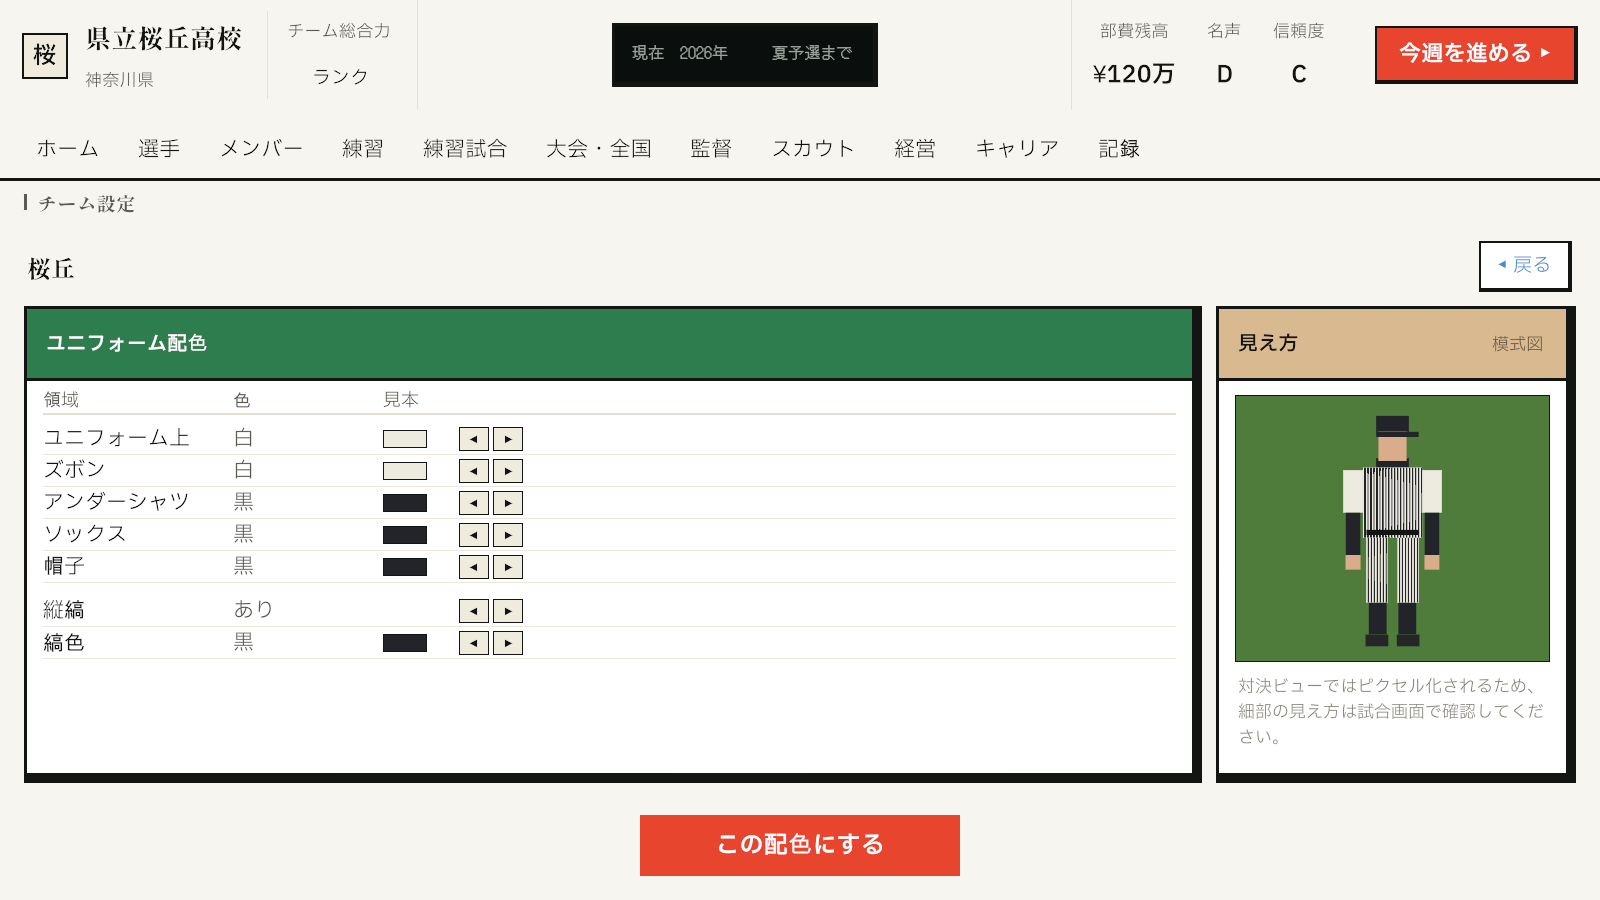
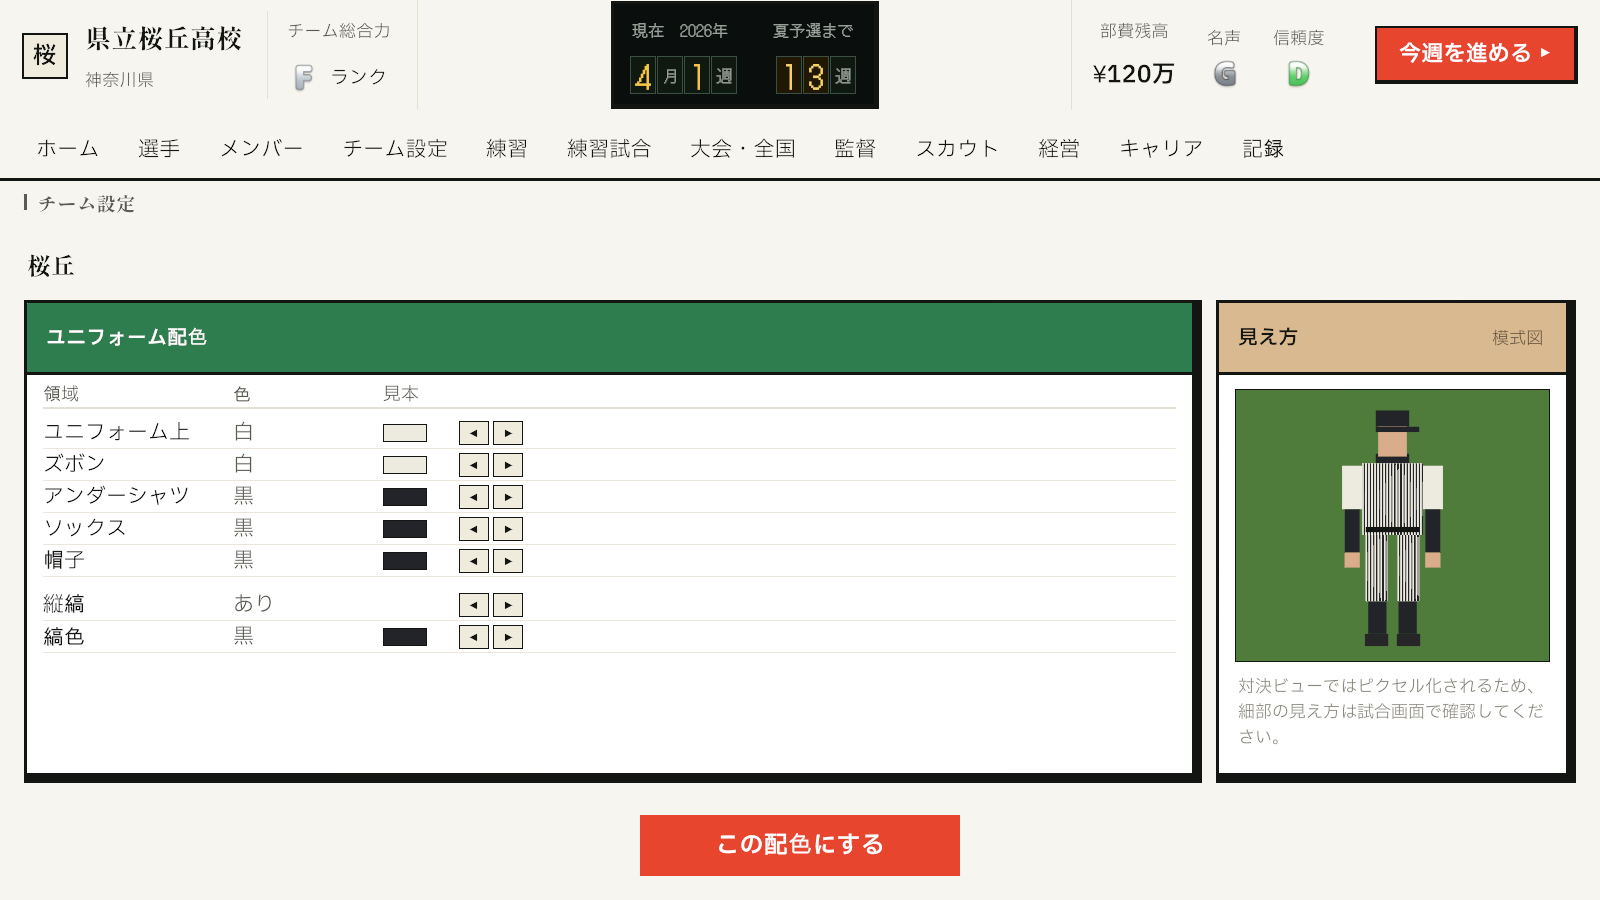
チーム設定をナビタブに出す（メンバーの隣）
従属画面（メンバー設定のボタンから開く）をやめ、共通トップバーのタブにする。

- TopBar に nav-team を追加し、ScreenRouter の Map へ登録（ExtraScreens からは外す）。
  タブ強調は Map をなめる既存ループがそのまま面倒を見る
- WeekAdvancers に追加。他のタブ画面と同じく「今週を進める」を配線し、
  引退週・開幕週はホームへ回送する
- TeamSettingController がトップバーの動的値（週・部費・名声・信頼度・総合ランク）を埋める。
  タブ画面は全部これを埋める規約（UI-BUILD-METHOD 共通シェル）
- 導線が重複するので、メンバー設定の「チーム設定」ボタンと画面内の「戻る」は削除した
  （タブがあるのに戻るボタンも置くと操作が二重になる＝UI原則⑦）

検証: ScreenRouter 経路で遷移して nav-team の強調と行7つを実測（スクショのハーネスは
SetActive を直接叩くのでこの配線を通らない＝別途 GameView で撮った i-teamset-3-tab）。

engine は不変（1535件緑のまま）。

diff --git a/Assets/KokoSim/Shell/ScreenRouter.cs b/Assets/KokoSim/Shell/ScreenRouter.cs
@@ -23,6 +23,7 @@ namespace KokoSim.Unity.Shell
             ("nav-home", "HomeDashboard"),
             ("nav-players", "PlayerList"),
             ("nav-member", "MemberSetting"),
+            ("nav-team", "TeamSetting"),
             ("nav-training", "TrainingPlan"),
             ("nav-practice", "PracticeMatch"),
             ("nav-match", "MatchScreen"),
@@ -37,17 +38,16 @@ namespace KokoSim.Unity.Shell
         // MatchResult はその出口（ライブ観戦の終局で自動遷移するボックススコア画面。閉じるとホームへ戻る）。
         // PlayerDetail はマスターディテール化（issue #131）で独立画面ではなくなった
         // （PlayerList と同一 GameObject・同一 UIDocument に同居）。
-        // TeamSetting はユニフォーム配色（設計書18 §3.5.1）。ナビタブは持たず、メンバー設定から遷移する
-        // （「チームの見た目を決める場所」として背番号編集と同じ導線に置く）。
         private static readonly string[] ExtraScreens =
-            { "LineupSetting", "TeamStrength", "MatchPreview", "MatchLive", "MatchResult", "TeamSetting" };
+            { "LineupSetting", "TeamStrength", "MatchPreview", "MatchLive", "MatchResult" };
 
         private const string DefaultScreen = "HomeDashboard";
 
         // ホーム以外で「今週を進める」を持つ画面。ここで引退週／大会開幕週に入ったら、主将指名モーダル／
         // 開幕バナーの演出をホームで出すため回送する（issue #134: 全タブに advance を配線したので選手/メンバーも含む）。
         private static readonly string[] WeekAdvancers =
-            { "TrainingPlan", "TournamentPreview", "PracticeMatch", "PlayerList", "MemberSetting", "ManagerScreen" };
+            { "TrainingPlan", "TournamentPreview", "PracticeMatch", "PlayerList", "MemberSetting", "ManagerScreen",
+              "TeamSetting" };
 
         /// <summary>プログラム遷移用（試合開始→スタメン設定→ホームなど、ナビを介さない画面切替）。</summary>
         public static ScreenRouter Instance { get; private set; }

diff --git a/Assets/KokoSim/Team/TeamSettingController.cs b/Assets/KokoSim/Team/TeamSettingController.cs
@@ -1,5 +1,6 @@
 using System.Collections.Generic;
 using KokoSim.Engine.Nation;
+using KokoSim.Unity.Components;   // 部品辞書（RankChip）
 using KokoSim.Unity.Shell;
 using UnityEngine;
 using UnityEngine.UIElements;
@@ -64,8 +65,10 @@ namespace KokoSim.Unity.Squad
             if (own != null) own.text = NationService.ManagerSchoolName;
 
             _root.Q<Button>("ts-apply")?.RegisterCallback<ClickEvent>(_ => Apply());
-            _root.Q<Button>("ts-back")?.RegisterCallback<ClickEvent>(
-                _ => ScreenRouter.Instance?.ShowDeferred("MemberSetting"));
+
+            // 共通トップバーの「今週を進める」（他のタブ画面と同じ配線。引退週・開幕週はホームへ回送される）
+            var advance = _root.Q<Button>("advance");
+            if (advance != null) advance.clicked += () => WeekAdvance.FromSideScreen(Render);
 
             _applied = TeamColorProvider.ManagerColors;
             _draft = _applied;
@@ -83,12 +86,25 @@ namespace KokoSim.Unity.Squad
 
         private void Render()
         {
+            RenderTopBar();
             if (_rowHost == null || _draft == null) return;
             _rowHost.Clear();
             foreach (var r in Rows) _rowHost.Add(BuildRow(r.Slot, r.Label, r.GroupTop));
             _preview?.SetColors(_draft);
             if (_changed != null)
                 _changed.text = Equals(_draft, _applied) ? "" : "未確定の変更あり";
+        }
+
+        /// <summary>共通トップバーの動的値（週・メーター・自校の総合ランク）を埋める。他画面と同じ単一ソース。</summary>
+        private void RenderTopBar()
+        {
+            if (_root == null) return;
+            KokoSim.Unity.Components.ScoreboardStrip.Fill(_root);
+            TopBarMeters.Fill(_root);
+            var rank = _root.Q<VisualElement>("team-rank");
+            if (rank == null) return;
+            rank.Clear();
+            rank.Add(UiComponents.RankChipLegacy(TeamOverall.GradeOf(RosterService.Active)));
         }
 
         private VisualElement BuildRow(Slot slot, string label, bool groupTop)

diff --git a/Assets/KokoSim/Member/MemberSettingController.cs b/Assets/KokoSim/Member/MemberSettingController.cs
@@ -62,9 +62,6 @@ namespace KokoSim.Unity.Member
             }
 
             Click("ms-auto", () => { _state.AutoAssign(); Render(); });
-            // チーム設定（ユニフォーム配色, design-18 §3.5.1）。ナビタブを増やさず、
-            // 「チームの見た目を決める場所」としてここから開く
-            Click("ms-team-setting", () => Shell.ScreenRouter.Instance?.ShowDeferred("TeamSetting"));
 
             // 共通トップバーの「今週を進める」を配線（issue #134: 以前は未配線で死にボタンだった）。
             // ScreenRouter が SetActive で付け外しするだけなので、OnDisable で必ず外す（多重登録＝多重進週の防止）。

diff --git a/docs/design/design-18-player-character-production.md b/docs/design/design-18-player-character-production.md
@@ -333,7 +333,7 @@
   メッシュ単位で振る作りのためクラウンとつばを塗り分けられない。分けるには幾何で二分する前処理が要る
 - 自校の上書きは `TeamColorProvider.ManagerOverride`。**セーブ機構がまだ無いのでセッション内だけ生きる**
   （Unityを落とせばキャリアごと消えるのは現状のゲーム全体と同じ）
-- 画面は**チーム設定**（`TeamSetting`・案B 領域別）。ナビタブを増やさずメンバー設定から開く。
+- 画面は**チーム設定**（`TeamSetting`・案B 領域別）。**ナビタブ**（`nav-team`・メンバーの隣）から開く。
   選べる色はパレット表に出てくる色だけ（`Swatches`）＝自由に見えて破綻した配色は作れない。
   プレビューは3Dでなく**2D模式図**（`UniformPreviewElement`）＝対決ビューでは帽子10画素・ソックス数画素で
   「どこを変えたか」が見えないため。**図の地は必ず選手より暗くする**（白ユニが背景に沈む実害）
